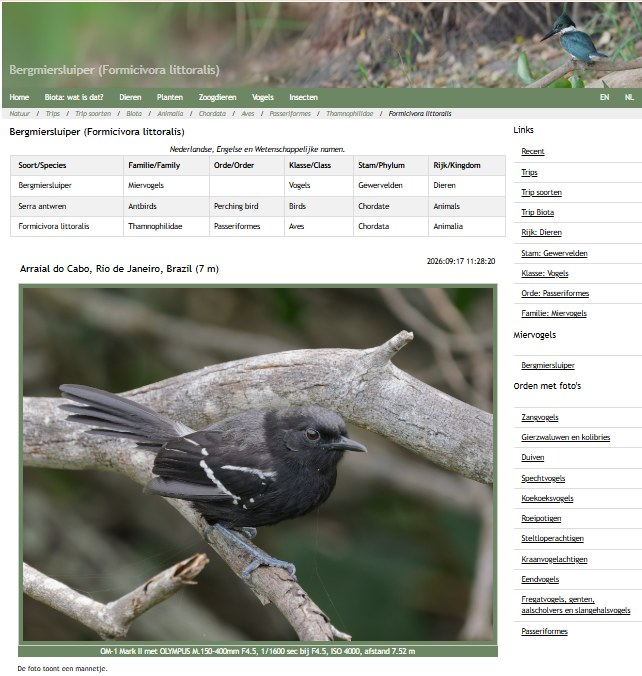
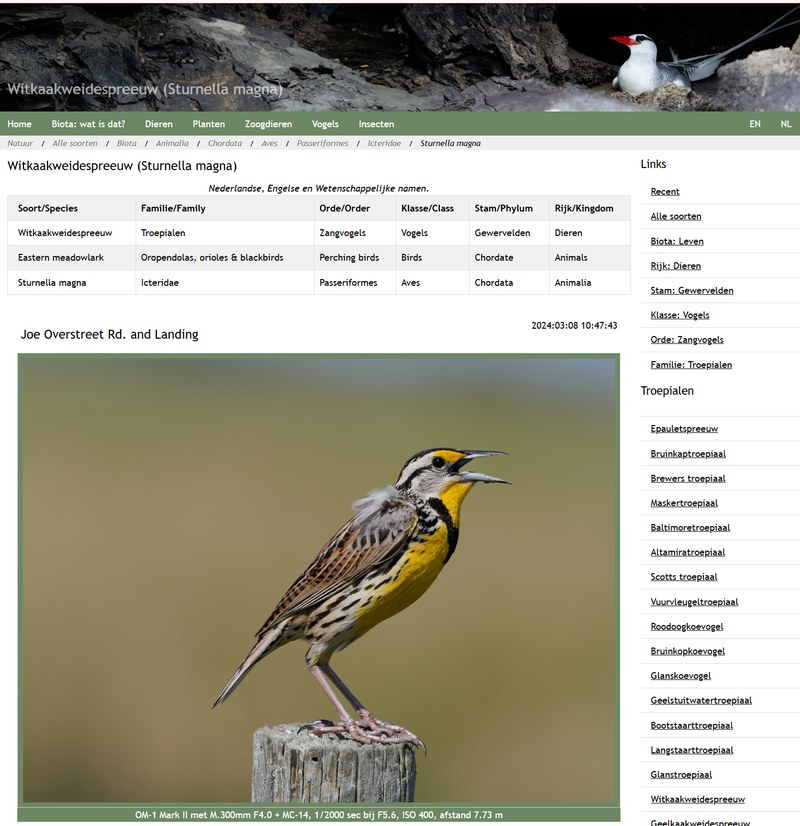
feat(illustrations): weaver and jay; tidier day table; the duck stays
- Read SD-card or Folder: the vitelline masked weaver on the SD card tab,
  where the copy runs (a collection is woven strand by strand).
- Metadata backup and RAW backup: the Eurasian jay (buries acorns, finds
  them back) beside the explanation.
- The day table's columns fit their contents; Tracklog takes the rest.
- Taskbar: the window icon is set again half a second after the main
  window appears; Windows sometimes made the button before reading the
  icon and showed a generic one.
- README: the species-page screenshot is now the eastern meadowlark.
- docs: illustrations.md table; illustration_candidates.csv maps each of
  the author's photos to a window and a reason.

All tested by Gilbert.

diff --git a/speciesviewer/gui/trip_process.py b/speciesviewer/gui/trip_process.py
@@ -1,6 +1,6 @@
 from PyQt6.QtWidgets import (QDialog, QVBoxLayout, QHBoxLayout, QLabel, QPushButton, QCheckBox,
     QTabWidget, QWidget, QVBoxLayout, QComboBox, QLineEdit, QFormLayout, QSizePolicy, QFileDialog, QDateEdit, QTextEdit,
-    QTableWidget, QTableWidgetItem, QAbstractItemView, QStyledItemDelegate, QMessageBox, QFrame, QApplication,
+    QTableWidget, QTableWidgetItem, QHeaderView, QAbstractItemView, QStyledItemDelegate, QMessageBox, QFrame, QApplication,
     QListWidget, QListWidgetItem, QScrollArea)
 from PyQt6.QtGui import QFont, QFontMetrics, QGuiApplication, QColor
 from PyQt6.QtCore import Qt, QThread, QObject, pyqtSignal
@@ -1119,9 +1119,19 @@ class ReadSDCardDialog(QDialog):
         # progress, and the eventual read result. Everything Scan/Read change,
         # which is why on_scan/on_read switch to it automatically.
         tab2 = QWidget()
-        card_layout = QVBoxLayout(tab2)
-        card_layout.setContentsMargins(12, 12, 12, 12)
+        # The weaver keeps you company where the long copy runs: a collection
+        # is woven strand by strand (see docs/illustrations.md).
+        card_row = QHBoxLayout(tab2)
+        card_row.setContentsMargins(12, 12, 12, 12)
+        card_row.setSpacing(14)
+        from gui.wait_picture import picture_label
+        weaver = picture_label("weaver", 140, self.devicePixelRatioF())
+        if weaver is not None:
+            card_row.addWidget(weaver, alignment=Qt.AlignmentFlag.AlignTop)
+        card_layout = QVBoxLayout()
+        card_layout.setContentsMargins(0, 0, 0, 0)
         card_layout.setSpacing(10)
+        card_row.addLayout(card_layout, 1)
         self.tabs.addTab(_scrollable(tab2), "SD card")
         self._tab_card = tab2
 
@@ -1170,7 +1180,11 @@ class ReadSDCardDialog(QDialog):
         self.days_table.setEditTriggers(QAbstractItemView.EditTrigger.NoEditTriggers)
         self.days_table.setSelectionMode(QAbstractItemView.SelectionMode.NoSelection)
         self.days_table.setFocusPolicy(Qt.FocusPolicy.NoFocus)
-        self.days_table.horizontalHeader().setStretchLastSection(True)
+        # Counts and the date are narrow — size them to their contents, and let
+        # the last column (the tracklog file names) take the rest of the width.
+        _hdr = self.days_table.horizontalHeader()
+        _hdr.setSectionResizeMode(QHeaderView.ResizeMode.ResizeToContents)
+        _hdr.setStretchLastSection(True)
         self.days_table.itemChanged.connect(self._on_day_item_changed)
         # Vertical Expanding + the stretch below: a taller dialog becomes more
         # visible days rather than empty space under the block. How far it may

diff --git a/speciesviewer/gui/wait_picture.py b/speciesviewer/gui/wait_picture.py
@@ -16,6 +16,23 @@ _ASSETS = Path(__file__).resolve().parent.parent / "assets"
 SIDE = 180          # the picture's edge on screen, in pixels
 
 
+def picture_label(picture: str, side: int, dpr: float = 1.0) -> QLabel | None:
+    """A QLabel showing assets/wait_<picture>.jpg at `side` pixels, or None
+    when the file is missing — for a window that is not a wait box but is
+    open while a long job runs (Read SD-card or Folder)."""
+    pix = QPixmap(str(_ASSETS / f"wait_{picture}.jpg"))
+    if pix.isNull():
+        return None
+    pix = pix.scaled(int(side * dpr), int(side * dpr),
+                     Qt.AspectRatioMode.KeepAspectRatio,
+                     Qt.TransformationMode.SmoothTransformation)
+    pix.setDevicePixelRatio(dpr)
+    label = QLabel()
+    label.setPixmap(pix)
+    label.setFixedSize(side, side)
+    return label
+
+
 def wait_layout(dialog: QDialog, picture: str | None,
                 width: int, height: int) -> QVBoxLayout:
     """Lay out `dialog` and return the column its text and spinner go into.

diff --git a/speciesviewer/gui/work_backup_dialog.py b/speciesviewer/gui/work_backup_dialog.py
@@ -127,7 +127,15 @@ class BackupWorkDialog(QDialog):
         self.resize(760, 480)
 
         outer = QVBoxLayout(self)
-        outer.addWidget(wrapped(
+        # The jay buries acorns and finds them back months later — a backup.
+        intro_row = QHBoxLayout()
+        intro_row.setSpacing(14)
+        from gui.wait_picture import picture_label
+        jay = picture_label("jay", 100, self.devicePixelRatioF())
+        if jay is not None:
+            intro_row.addWidget(jay, alignment=Qt.AlignmentFlag.AlignTop)
+        outer.addLayout(intro_row)
+        intro_row.addWidget(wrapped(
             "The SD-cards keep the pictures. This backs up the <b>work</b> — culling "
             "colours, species, locations, crops, blog text and the rendered JPGs — "
             "onto the <b>SV INDEX</b> card, as one ZIP per day."))

diff --git a/speciesviewer/gui/raw_backup_dialog.py b/speciesviewer/gui/raw_backup_dialog.py
@@ -161,7 +161,15 @@ class RawBackupDialog(QDialog):
         self.resize(760, 520)
 
         outer = QVBoxLayout(self)
-        outer.addWidget(wrapped(
+        # The jay buries acorns and finds them back months later — a backup.
+        intro_row = QHBoxLayout()
+        intro_row.setSpacing(14)
+        from gui.wait_picture import picture_label
+        jay = picture_label("jay", 100, self.devicePixelRatioF())
+        if jay is not None:
+            intro_row.addWidget(jay, alignment=Qt.AlignmentFlag.AlignTop)
+        outer.addLayout(intro_row)
+        intro_row.addWidget(wrapped(
             "Copies each selected day's <b>picture folder</b> — RAW/HEIC, "
             "sidecars and JPGs — to a RAW-backup location such as a spare SD "
             "card or an external drive. This is separate from the Metadata "

diff --git a/speciesviewer/SpeciesViewer.py b/speciesviewer/SpeciesViewer.py
@@ -186,6 +186,11 @@ def start_main():
         main_window._restore_active_left_mode()
         splash.finish(main_window)
         main_window.show()
+        # Once in a while Windows made the taskbar button before it read the
+        # window's icon and showed a generic one (2026-10-13/14, twice an
+        # evening). Setting the icon again, right after the window appears,
+        # makes Windows refresh the button.
+        QTimer.singleShot(500, lambda: main_window.setWindowIcon(_app_icon()))
         # Content-driven splitter sizes (restored from [layout] in the per-machine
         # .ini) can ask for a wider/taller window than the current screen offers —
         # e.g. this machine's config carrying sizes saved on a bigger monitor.

diff --git a/docs/illustrations.md b/docs/illustrations.md
@@ -27,10 +27,16 @@ out against the app's sand and grey.
 | African Pygmy-goose | `assets/about_duck.jpg` | Help ▸ About |
 | Leopard tortoise | `assets/wait_tortoise.jpg` | Retire Trip to Album — the longest wait |
 | Chameleon | `assets/wait_chameleon.jpg` | To Master ▸ Merge Pictures into Master (steps 2–4) |
+| Vitelline masked weaver | `assets/wait_weaver.jpg` | Trips ▸ Read SD-card or Folder (and Days ▸ Copy Day from Card) — a collection is woven strand by strand |
+| Eurasian jay | `assets/wait_jay.jpg` | Metadata backup and RAW backup — the jay buries acorns and finds them back |
 
 A wait picture is `assets/wait_<name>.jpg`, about 512×512; a step shows it with
 `'wait_picture': '<name>'` (see `gui/wait_picture.py`). Keep the 2048-pixel originals out
-of git; the program needs only the small copy.
+of git; the program needs only the small copy. In a window that is not a wait box, the
+picture sits small beside the explanation (`picture_label` in the same module).
+
+Which window gets which animal next, and from which of the author's photographs: see
+[plans/illustration_candidates.csv](plans/illustration_candidates.csv).
 
 The splash screen deliberately uses real photographs, not drawings: drawings are the
 program's own voice, photographs the real thing.

diff --git a/README.md b/README.md
@@ -60,7 +60,7 @@ lists. There is no database to install, and no database upgrade with a new versi
 </p>
 
 <p align="center">
-  <img src="docs/images/species-page.jpg" width="480" alt="A species page on the published website, with names in three languages and the classification">
+  <img src="docs/images/species-page.jpg" width="560" alt="A species page on the published website: the eastern meadowlark, with names in three languages, the classification and the photo details">
   <br><em>A species page on the website: names, classification, the best pictures and a map.</em>
 </p>
 
